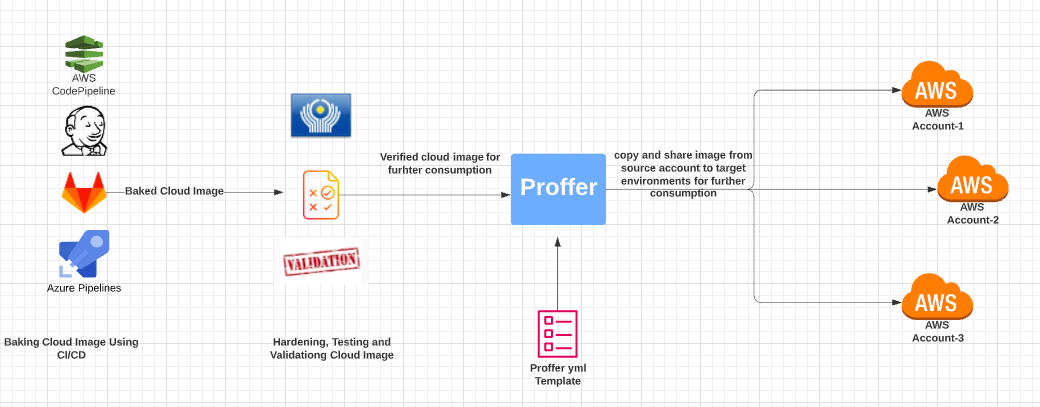
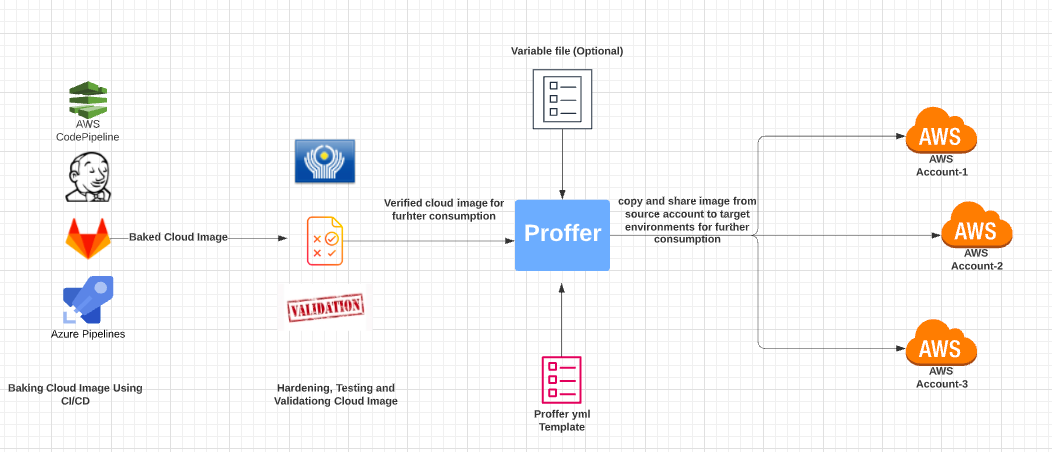
Added var file symbol in proffer workflow diagram

diff --git a/doc/proffer.md b/doc/proffer.md
@@ -23,8 +23,9 @@ $ proffer apply proffer.yml
 ### Options
 
 ```
-  -d, --debug   Set debug flag to get detailed logging
-  -h, --help    help for proffer
+  -d, --debug             Set debug flag to get detailed logging
+  -h, --help              help for proffer
+      --var-file string   Variable file to pass variable's value, otherwise will use default values
 ```
 
 ### SEE ALSO
@@ -34,4 +35,4 @@ $ proffer apply proffer.yml
 * [proffer gendoc](proffer_gendoc.md)	 - Generate proffer markdown documentation
 * [proffer validate](proffer_validate.md)	 - Validate proffer configuration file.
 
-###### Auto generated by spf13/cobra on 24-May-2020
+###### Auto generated by spf13/cobra on 31-May-2020

diff --git a/doc/proffer_validate.md b/doc/proffer_validate.md
@@ -28,11 +28,12 @@ $ proffer validate -d proffer.yml
 ### Options inherited from parent commands
 
 ```
-  -d, --debug   Set debug flag to get detailed logging
+  -d, --debug             Set debug flag to get detailed logging
+      --var-file string   Variable file to pass variable's value, otherwise will use default values
 ```
 
 ### SEE ALSO
 
 * [proffer](proffer.md)	 - Proffer is a cross platform tool to distribute cloud images between multiple regions and environments using yml configuration file.
 
-###### Auto generated by spf13/cobra on 24-May-2020
+###### Auto generated by spf13/cobra on 31-May-2020

diff --git a/doc/proffer_apply.md b/doc/proffer_apply.md
@@ -30,11 +30,12 @@ $ proffer apply -d proffer.yml
 ### Options inherited from parent commands
 
 ```
-  -d, --debug   Set debug flag to get detailed logging
+  -d, --debug             Set debug flag to get detailed logging
+      --var-file string   Variable file to pass variable's value, otherwise will use default values
 ```
 
 ### SEE ALSO
 
 * [proffer](proffer.md)	 - Proffer is a cross platform tool to distribute cloud images between multiple regions and environments using yml configuration file.
 
-###### Auto generated by spf13/cobra on 24-May-2020
+###### Auto generated by spf13/cobra on 31-May-2020

diff --git a/doc/proffer_gendoc.md b/doc/proffer_gendoc.md
@@ -20,11 +20,12 @@ proffer gendoc [flags]
 ### Options inherited from parent commands
 
 ```
-  -d, --debug   Set debug flag to get detailed logging
+  -d, --debug             Set debug flag to get detailed logging
+      --var-file string   Variable file to pass variable's value, otherwise will use default values
 ```
 
 ### SEE ALSO
 
 * [proffer](proffer.md)	 - Proffer is a cross platform tool to distribute cloud images between multiple regions and environments using yml configuration file.
 
-###### Auto generated by spf13/cobra on 24-May-2020
+###### Auto generated by spf13/cobra on 31-May-2020

diff --git a/doc/proffer_completion.md b/doc/proffer_completion.md
@@ -60,11 +60,12 @@ For zsh-completion
 ### Options inherited from parent commands
 
 ```
-  -d, --debug   Set debug flag to get detailed logging
+  -d, --debug             Set debug flag to get detailed logging
+      --var-file string   Variable file to pass variable's value, otherwise will use default values
 ```
 
 ### SEE ALSO
 
 * [proffer](proffer.md)	 - Proffer is a cross platform tool to distribute cloud images between multiple regions and environments using yml configuration file.
 
-###### Auto generated by spf13/cobra on 24-May-2020
+###### Auto generated by spf13/cobra on 31-May-2020
